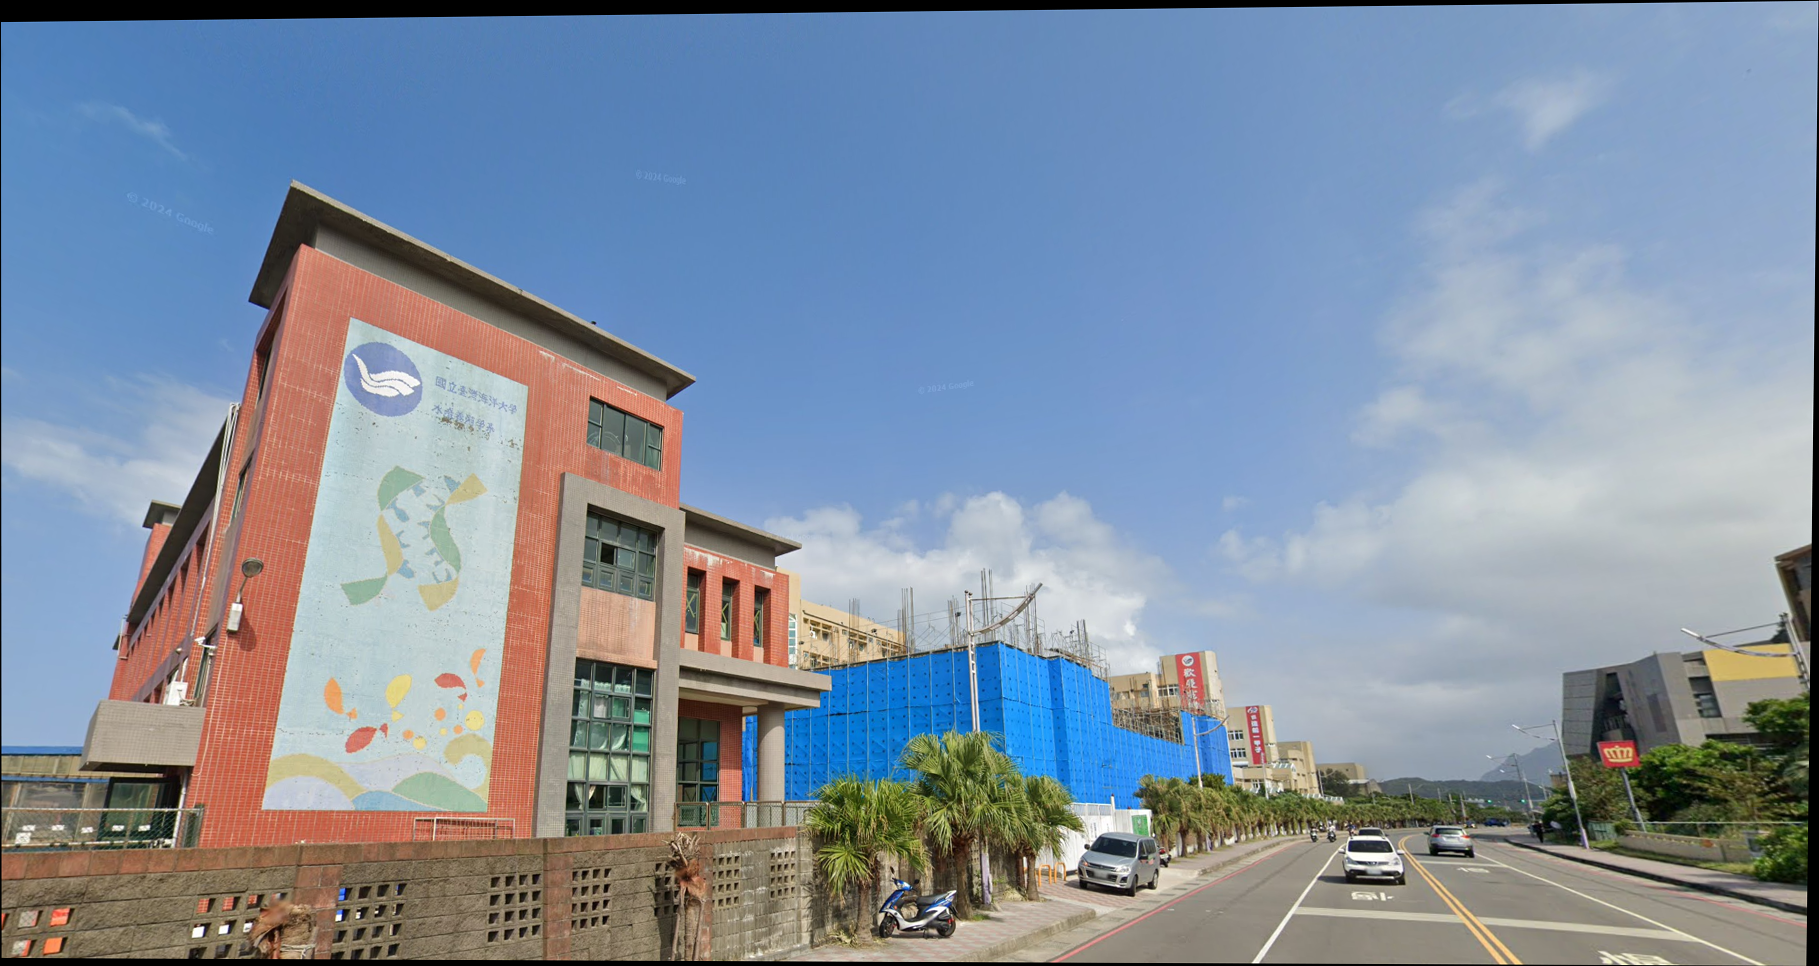
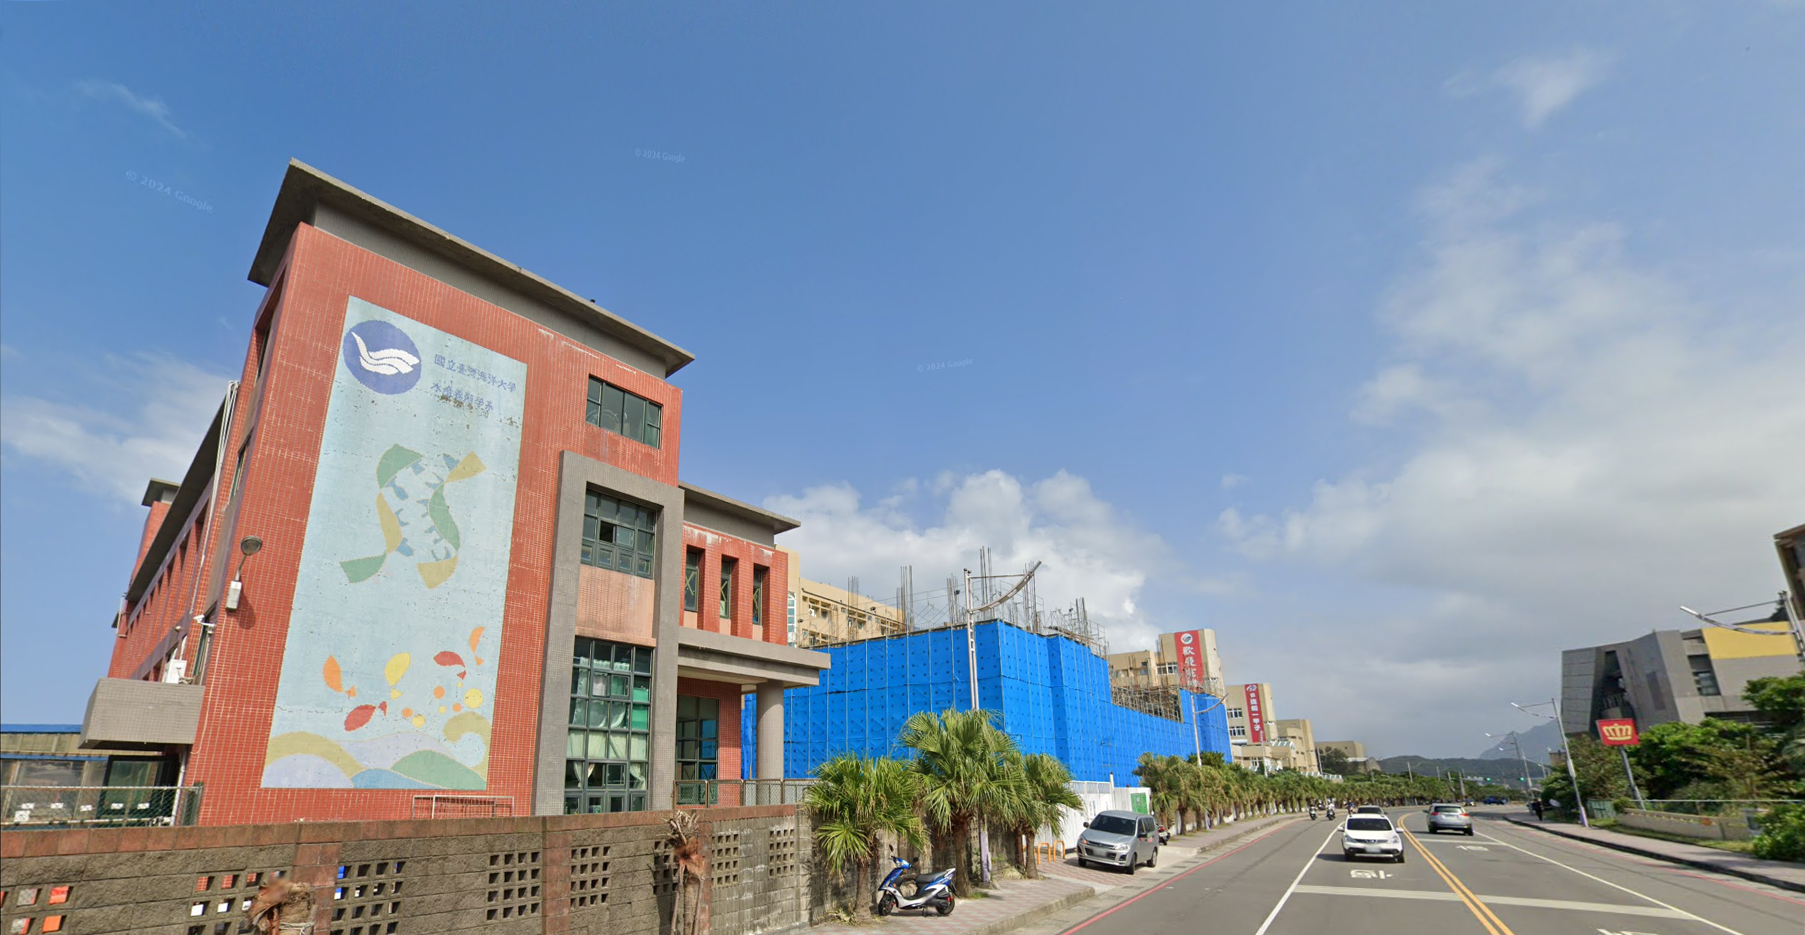
對其

diff --git a/backend/src/v1/alignment.py b/backend/src/v1/alignment.py
@@ -162,8 +162,7 @@ def align_images(img1_bytes: bytes, img2_bytes: bytes):
             return None
     except Exception as e:
         print(f"對齊過程中發生錯誤：{e}")
-
-
+        return None
 def crop_images(img1_aligned: np.ndarray, img2_ref: np.ndarray):
     """
     裁剪兩張圖片，去除 img1_aligned 因 warpPerspective 產生的黑色邊框
@@ -210,6 +209,40 @@ def crop_images(img1_aligned: np.ndarray, img2_ref: np.ndarray):
     print(f"圖像尺寸: {cropped_aligned.shape}")
     return cropped_aligned, cropped_ref
 
+def shrink(image):
+    if image is None:
+        return None
+    gray = cv2.cvtColor(image, cv2.COLOR_BGR2GRAY)
+    _, mask = cv2.threshold(gray, 1, 255, cv2.THRESH_BINARY)
+    #cv2.imwrite("mask.png", mask)
+    # 找輪廓
+    contours, _ = cv2.findContours(mask, cv2.RETR_EXTERNAL, cv2.CHAIN_APPROX_SIMPLE)
+    if not contours:
+        raise ValueError("找不到白色區域")
+
+    # 選最大輪廓（可能就是白底）
+    largest_contour = max(contours, key=cv2.contourArea)
+
+    # 近似成四邊形
+    epsilon = 0.02 * cv2.arcLength(largest_contour, True)
+    approx = cv2.approxPolyDP(largest_contour, epsilon, True)
+
+    if len(approx) != 4:
+        raise ValueError(f"偵測到的角點不是四個，而是 {len(approx)}")
+
+    # 排序四個角點為 top-left, top-right, bottom-right, bottom-left
+    points = approx.reshape(4, 2)
+    #print(f"偵測到的四個角點：{points}")
+    x=[]
+    y=[]
+    for i in range(4):
+        x.append(points[i][0])
+        y.append(points[i][1])
+    x = sorted(x)
+    y = sorted(y)
+    print(f"排序後的 x: {x}")
+    print(f"排序後的 y: {y}")
+    return image[y[1]:y[2], x[1]:x[2]]  # 裁剪區域 
 
 # 測試
 if __name__ == "__main__":
@@ -234,6 +267,7 @@ if __name__ == "__main__":
         img1_bytes,
         img2_bytes
     )
+    
 
     print(f"對齊後圖片的形狀：{aligned_image_np.shape}，類型：{aligned_image_np.dtype}")
     cv2.imwrite(os.path.join(
@@ -242,10 +276,10 @@ if __name__ == "__main__":
     if aligned_image_np is None or ref_image_np is None:
         print("無法進行裁剪。")
     else:
-        cropped_aligned, cropped_ref = crop_images(
-            aligned_image_np, ref_image_np)
+        cropped_aligned, cropped_ref = crop_images(aligned_image_np, ref_image_np)
 
         if cropped_aligned is not None and cropped_ref is not None:
+
             cv2.imwrite(os.path.join(
                 OUTPUT_DIR, "cropped_aligned.png"), cropped_aligned)
             cv2.imwrite(os.path.join(

diff --git a/backend/src/v1/v1_test.py b/backend/src/v1/v1_test.py
@@ -6,7 +6,7 @@ import gc
 import torch
 import io
 
-from alignment import align_images, crop_images
+from alignment import align_images, crop_images,shrink
 from description import initialize_image_description_model, generate_image_description
 from prompting import generate_transition_prompts
 from generation import initialize_sd_pipeline, generate_image_sequence, interpolate_frames
@@ -108,7 +108,9 @@ async def transtion(oldImage: Image.Image, newImage: Image.Image):
     cropped_aligned_np, cropped_ref_np = crop_images(
         aligned_img1_np, ref_img2_np)
     crop_end_time = time.time()
-
+    cropped_aligned_np = shrink(cropped_aligned_np)
+    cropped_ref_np = shrink(cropped_ref_np)
+    # 將裁剪後的圖片轉換為 PIL RGB 格式S
     if cropped_aligned_np is None or cropped_ref_np is None:
         print("裁剪圖片失敗")
         exit()
